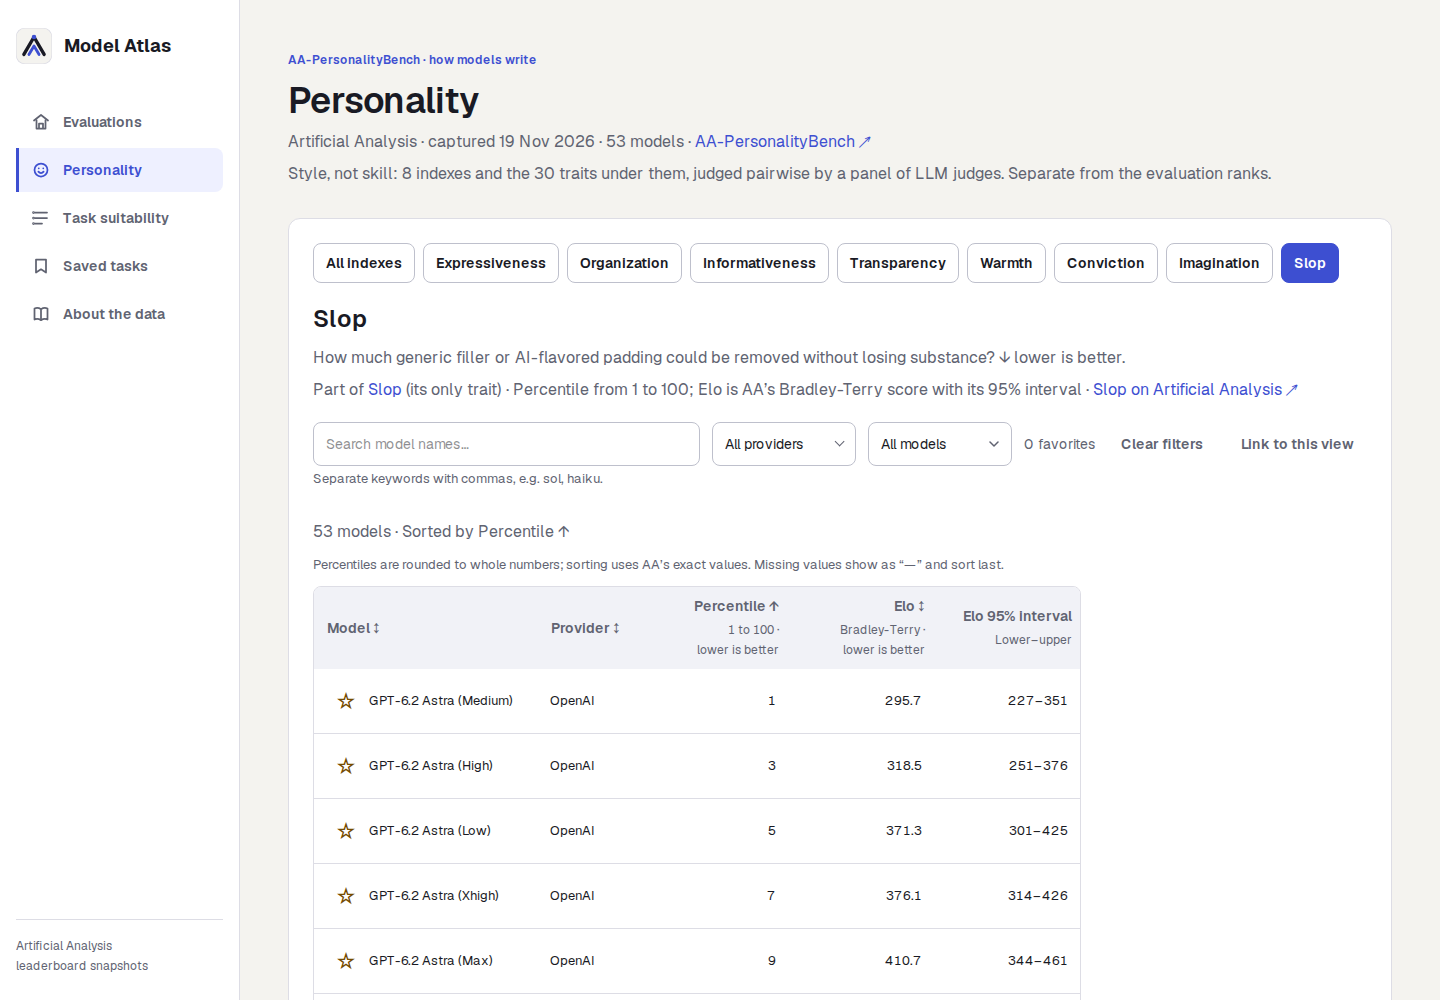
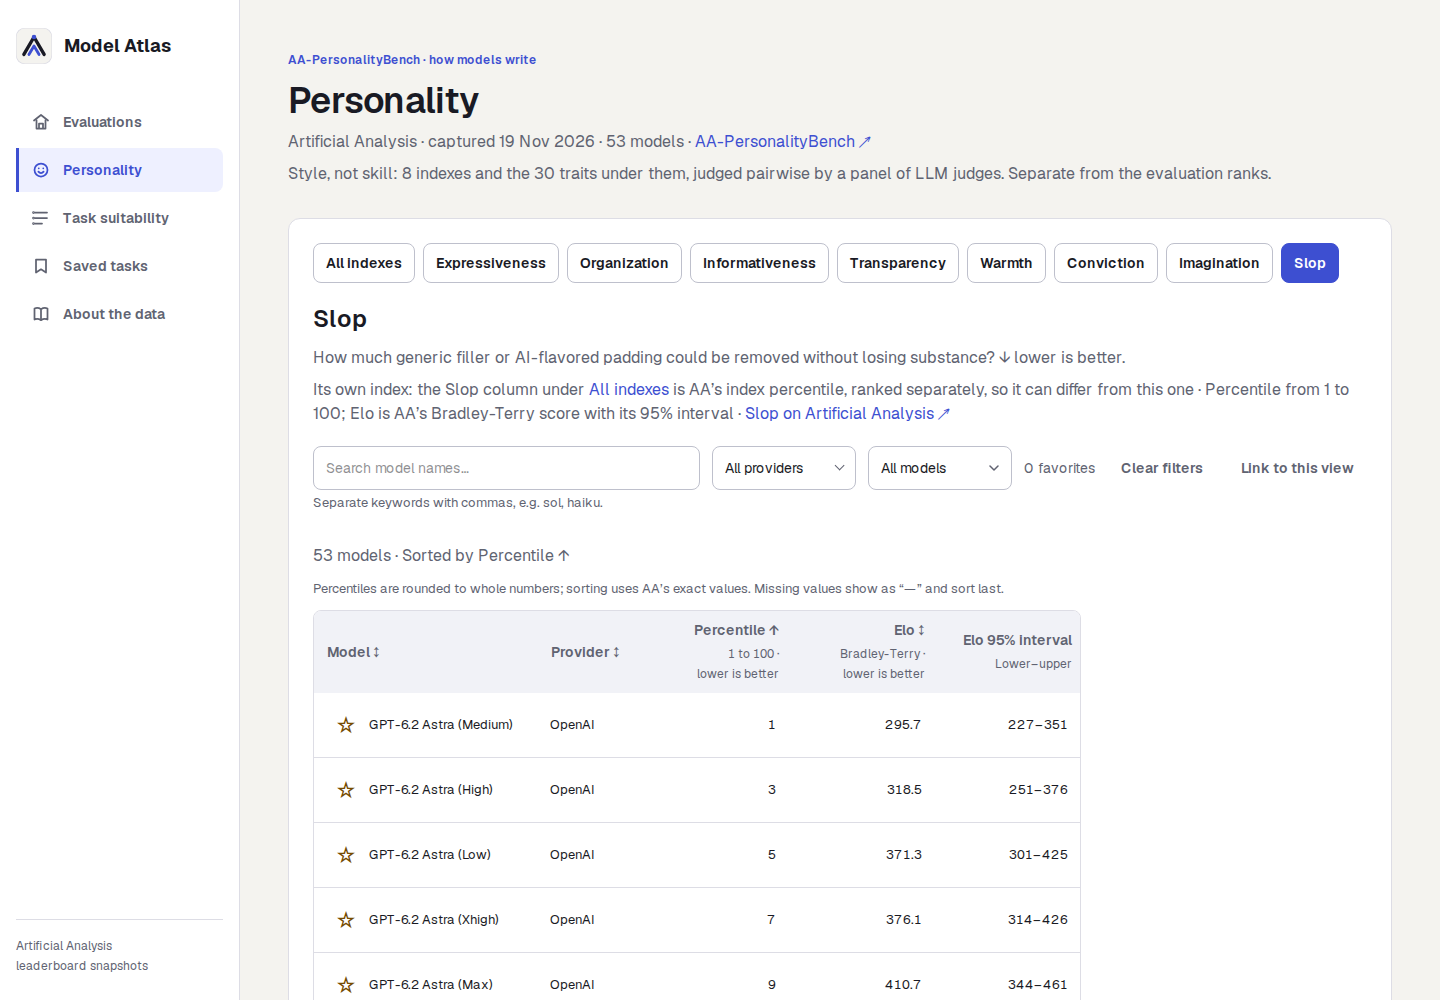
fix: explain Slop's separately ranked index (Phase 1 review)
R1 review. AA ranks the Slop index and the Slop trait separately (GPT-6.2
Astra Max: index 7, trait 9), but the Slop view said "(its only trait)"
and linked to itself. It now points to the Slop column under All indexes
and says the two percentiles can differ.

Checked: Sincere, Warmth and Slop for Fable 5.2 Max, Opus 5.5 Max,
GPT-6.2 Astra Max, GPT-6.2 Sol Max and GLM-5.3 Max on live AA match the
page; capture inventory matches the capture (53 models). Production build,
check-personality-browser and check-master-browser pass; tsc and unit
tests pass.

diff --git a/src/components/personality-leaderboard.tsx b/src/components/personality-leaderboard.tsx
@@ -68,7 +68,10 @@ function LevelNotes({dataset,level,levelHref}:{dataset:PersonalityDataset;level:
   </>;
   return <>
     <p>{level.trait.definition}{level.trait.lower_is_better?" ↓ lower is better.":""}</p>
-    <p>Part of <Link href={levelHref(level.index.key)}>{level.index.label}</Link>{level.index.traits.length===1?" (its only trait)":""} · Percentile from 1 to 100; Elo is AA’s Bradley-Terry score with its 95% interval · <a href={level.trait.source_url} target="_blank" rel="noreferrer">{level.trait.label} on Artificial Analysis ↗</a></p>
+    <p>{level.index.traits.length===1
+      // AA ranks a one-trait index separately from its trait, so the two percentiles can differ (Slop: 7 vs 9 for GPT-6.2 Astra Max).
+      ?<>Its own index: the {level.index.label} column under <Link href={levelHref()}>All indexes</Link> is AA’s index percentile, ranked separately, so it can differ from this one</>
+      :<>Part of <Link href={levelHref(level.index.key)}>{level.index.label}</Link></>} · Percentile from 1 to 100; Elo is AA’s Bradley-Terry score with its 95% interval · <a href={level.trait.source_url} target="_blank" rel="noreferrer">{level.trait.label} on Artificial Analysis ↗</a></p>
   </>;
 }
 

diff --git a/src/lib/personality.ts b/src/lib/personality.ts
@@ -76,7 +76,7 @@ export function resolvePersonalityLevel(dataset: PersonalityDataset, indexKey: s
 const LOWER_IS_BETTER = "↓ lower is better";
 
 function indexLowerIsBetter(index: PersonalityIndex) {
-  // Slop's index is its one trait's percentile, so it reads the same way.
+  // Slop's index follows its one trait (AA ranks the two separately), so it reads the same way.
   return index.traits.length === 1 && index.traits[0].lower_is_better;
 }
 

diff --git a/docs/IMPLEMENTATION_PLAN.md b/docs/IMPLEMENTATION_PLAN.md
@@ -111,5 +111,5 @@ file and read at build time, the way the speed data is. Nothing else on the site
 | 1.1 | **Capture, import and inventory** [no look]. Add `scripts/capture-aa-personalitybench.mjs` (run like the evaluation capture, `PLAYWRIGHT_MODULE=…`): open the page, select every model with the selector logic of `scripts/capture-aa-evaluations.mjs` (export and reuse its helpers, don't copy them), then read every model's `judged` record and `creator`, the labels, index descriptions and trait lists, question counts and trait definitions from the page's payload, and write `data/aa-captures/aa-personalitybench.json` with `captured_at`. It throws, naming the page, when the selector isn't "M of M" or the records found aren't M. Add `scripts/import-aa-personalitybench.ts` (`npm run import:aa-personalitybench`) that writes `data/aa-personalitybench.json`: `captured_at`, the source URL, the 8 indexes in AA's order, each with label, description, question count and its traits (key, label, definition, lower-is-better flag, AA trait URL); and per model its name, provider, identity key, 8 index percentiles, and per trait percentile, Elo and Elo interval (`null` where AA has none). Put the types and the loader in `src/lib/personality.ts`. Add `tests/aa-personalitybench-import.test.ts`. Write `docs/AA_PERSONALITYBENCH_CAPTURE.md`: each AA model, the name and provider it gets, whether a master row matches, and any missing values. Add the refresh steps to `docs/DATA_DICTIONARY.md`. Read: "What AA publishes" and Decisions above; "Ordering and ingestion" in `docs/DATA_DICTIONARY.md`. **Done when**: the capture holds as many models as the selector counts (53 on 2026-11-19); the file has 8 indexes and 30 traits, each under the index listed above; a test changing one trait in a fake payload's index card makes the import throw; all identity keys are unique and a test with two models sharing one makes the import throw; the Fable 5.2, GPT-6.2 Astra and GPT-6.2 Sol rows have the same identity keys as their master rows; every value is 1–100 (percentiles) or inside its interval (Elo), or `null`; a second import changes no file; a forced selector failure throws naming the page; `git status` shows no change to `data/leaderboards.json` or the other captures; `tsc` and the new test pass. | Sol Max | New scrape and import that feed a page: FrontierCode 9, Terminal Bench 9 | 2026-11-19 · 53 models, 8 indexes, 30 traits, repeat import verified |
 | 1.2 | **The Personality page** [look]. Build `/personality` (`src/app/personality/page.tsx`, `src/components/personality-leaderboard.tsx`, the level, sort and URL logic in `src/lib/personality.ts`) as the design at the top and Decisions describe, with the master leaderboard's search, provider filter, favorites filter, sortable headers, pagination and pinned model column. Add the nav item, the home card and the `/about/data` paragraph. Add `tests/personality.test.ts`: every URL case in Decisions, the default sorts (Slop and Sycophantic lowest first), a fixture with a `null` value sorting last both ways, and level changes resetting page and sort. Then run the app (dev server, stopped by its PID) and take shots to `docs/screenshots/personality/build/`. Read first: `src/components/master-leaderboard.tsx`, `src/app/page.tsx`, `src/components/app-shell.tsx`, the master's rules in `src/app/globals.css`, and the UI rule in `AGENTS.md`. **Done when** the shots show: at 1440px, All indexes with Model, Provider and all 8 index columns without sideways scrolling and "↓ lower is better" on Slop; Warmth with the Warmth column then Friendly, Humorous, Sincere, Emotionally Intelligent and their definitions; Transparency (the widest: 5 traits) with Sycophantic marked lower is better and every header on at most two lines; Conviction with "Constructive Pushback" readable; Sincere with Percentile, Elo, the interval, its definition, "Part of Warmth" and AA's link; Slop opening its trait view; Imagination with only Creative and Open-Ended; the master leaderboard and Warmth at 1440px shot one after the other with the same table header, chip, button and spacing style; at 390px, All indexes, Transparency and Sincere with the model column pinned, at least two score columns beside it, the table starting on the first screen, the chips in one scrolling row, and no sideways page scroll; the home page at 1440px and 390px with the new card, and `/suitability` at 390px with the nav drawer open showing Personality. Also: reloading `/personality?index=warmth&trait=sincere&q=claude` restores that view; the tests and `tsc` pass. | Opus 5.5 High | First page of a new kind that sets its look (Presentation 28, Analytical Elo 10) | 2026-11-19 · 3 levels, 13 URL/sort tests, shots in `build/` |
 | 1.3 | **Browser check** [look]. Production build, `next start` through the node `next` bin, stopped by its PID (memory `next-start-pid`). Add `scripts/check-personality-browser.mjs`, modelled on `scripts/check-evaluation-browser.mjs`, and run it with `scripts/check-master-browser.mjs` (its expectations unedited). Shots go to `docs/screenshots/personality/`. **Done when**: both scripts pass; the count line on All indexes, Warmth and Sincere says the number of models in 1.1's doc; clicking the Sincere header sorts highest first, then lowest first, and the Slop header lowest first by default; search "claude" with the Anthropic provider filter shows only Anthropic rows and survives a reload; a model starred on the master page shows when "Favorites only" is picked on `/personality`, and an unstarred one doesn't; "No models match these filters." shows for a search with no hits; the nav item is marked current on `/personality`; the home card's link opens it; shots at 1440px and 390px of All indexes, Transparency and Sincere. | Sol High | Build, server, browser and shots: Terminal Bench 17 for $0.56 | 2026-11-19 · 53 models, both browser checks passed, 12 shots at 1440px and 390px after visual review |
-| R1 | **Phase 1 review**: the diff from `main`, 1.1's doc against the capture, and the 1.2 and 1.3 shots. Quick fixes only; the rest become fix rows under this one. **Done when**: five models' Sincere, Warmth and Slop values on live AA (two Claude, two GPT-6.2, one other) match the page; every FINDING is fixed or has a fix row; if a fix touched data or the page, 1.3's checks run again and pass. | Opus 5.5 High | Other family from most of the build (1.1 and 1.3 are Sol) | |
+| R1 | **Phase 1 review**: the diff from `main`, 1.1's doc against the capture, and the 1.2 and 1.3 shots. Quick fixes only; the rest become fix rows under this one. **Done when**: five models' Sincere, Warmth and Slop values on live AA (two Claude, two GPT-6.2, one other) match the page; every FINDING is fixed or has a fix row; if a fix touched data or the page, 1.3's checks run again and pass. | Opus 5.5 High | Other family from most of the build (1.1 and 1.3 are Sol) | 2026-11-19 · 5 models match live AA; Slop note fixed; 1.3 checks pass |
 | O1 | *owner*: release with `git push origin personality-bench:main` (no `publish:data` needed: the data ships with the deploy). On the live site, open `/personality`, open Warmth, then Sincere. | — | — | |
